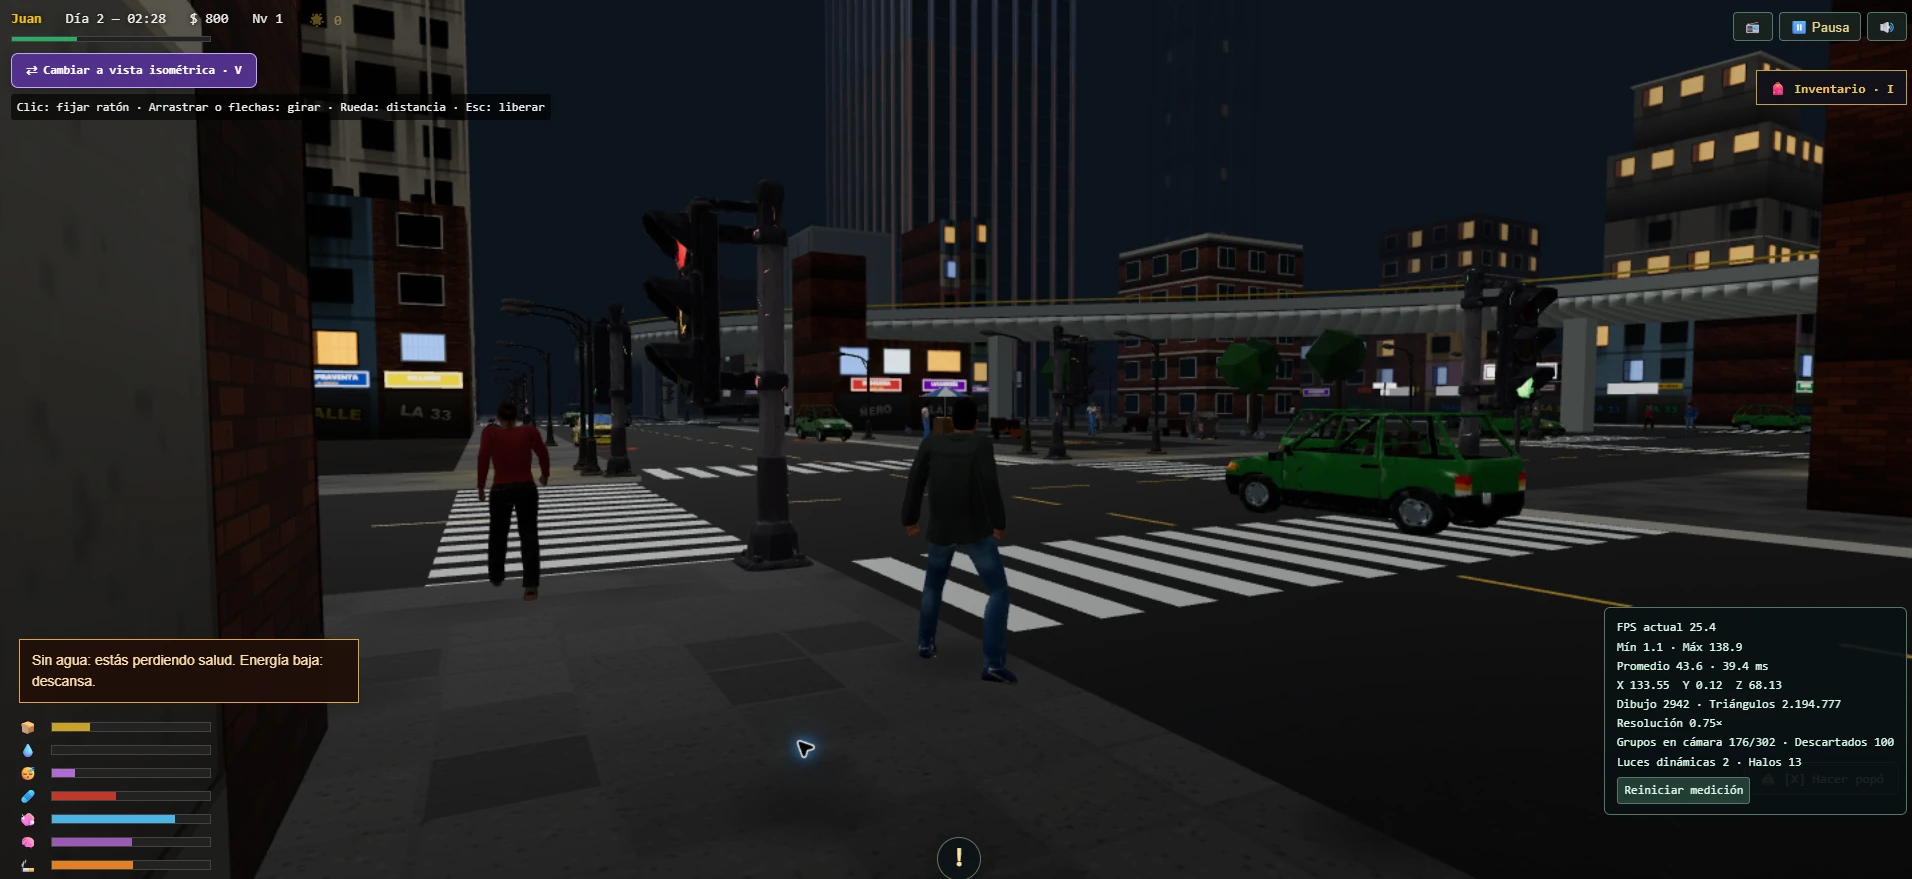
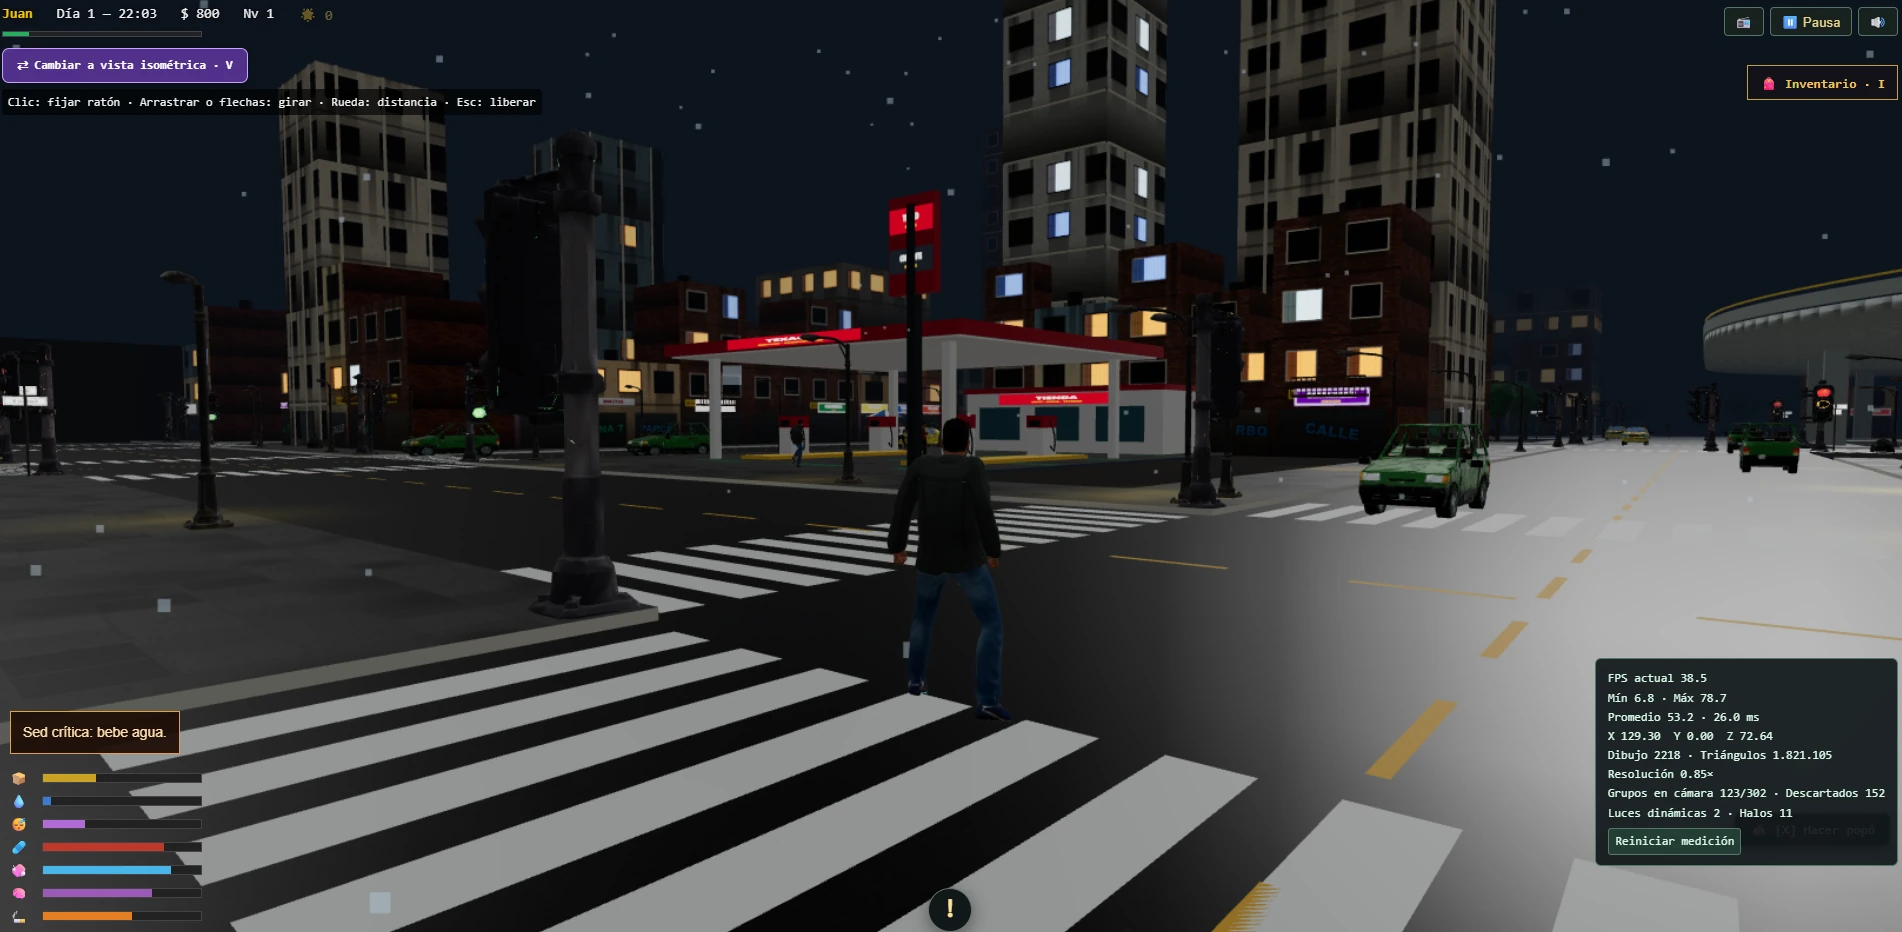
Reemplaza las cinco capturas del README por las nuevas imágenes del juego

diff --git a/README.md b/README.md
@@ -4,7 +4,7 @@ Juego de supervivencia urbana en 3D para el navegador, ambientado en un barrio i
 
 Este proyecto es un fork de [juanagogo/bazuko](https://github.com/juanagogo/bazuko), con mejoras de cámara, visibilidad, circulación y equilibrio de supervivencia.
 
-![Ciudad de noche en tercera persona: edificios de distintas alturas, peatones, tráfico y viaducto](docs/images/ciudad-nocturna-tercera-persona.webp)
+![Cruce nocturno en tercera persona con gasolinera, edificios altos, carros y viaducto](docs/images/ciudad-nocturna-tercera-persona.webp)
 
 ## Características
 
@@ -25,25 +25,23 @@ Este proyecto es un fork de [juanagogo/bazuko](https://github.com/juanagogo/bazu
 
 ## Capturas
 
-### Parque, palomas y El Chato
-
 Las capturas actuales muestran la ciudad de noche en tercera persona, con edificios de distintas alturas, tráfico y los nuevos espacios urbanos. Son imágenes reales del juego compartidas durante el desarrollo.
 
-### Gasolinera y edificios del barrio
+### Parque, palomas y El Chato
 
-![Personaje frente a la gasolinera iluminada, rodeada de edificios altos y casas de ladrillo](docs/images/gasolinera-nocturna.webp)
+![Parque de noche con palomas, El Chato, vendedor ambulante y bus sobre el viaducto](docs/images/parque-palomas-y-chato.webp)
 
 ### Estación Portal del Centro
 
-![Estación Portal del Centro al fondo, junto a la pasarela y la rampa del viaducto](docs/images/estacion-portal-del-centro.webp)
+![Bus articulado junto a la estación Portal del Centro, con la pasarela y el viaducto al fondo](docs/images/estacion-portal-del-centro.webp)
 
-### Acceso al viaducto
+### Calles y comercio bajo el viaducto
 
-![Rampa de acceso al puente elevado con peatones, taxis y edificios de distintos diseños](docs/images/acceso-al-viaducto.webp)
+![Cruce bajo el viaducto con semáforos, peatones, vendedor de frutas y fachadas de ladrillo](docs/images/acceso-al-viaducto.webp)
 
 ### Recorrido elevado junto a Colpatria
 
-![Vista desde el viaducto, con la Torre Colpatria, el edificio de ladrillo y las nuevas torres del barrio](docs/images/viaducto-y-colpatria.webp)
+![Buses articulados sobre el viaducto, junto a la Torre Colpatria y los edificios del barrio](docs/images/viaducto-y-colpatria.webp)
 
 Las cinco capturas están en [docs/images](docs/images), en formato WebP optimizado y con su resolución original.
 
